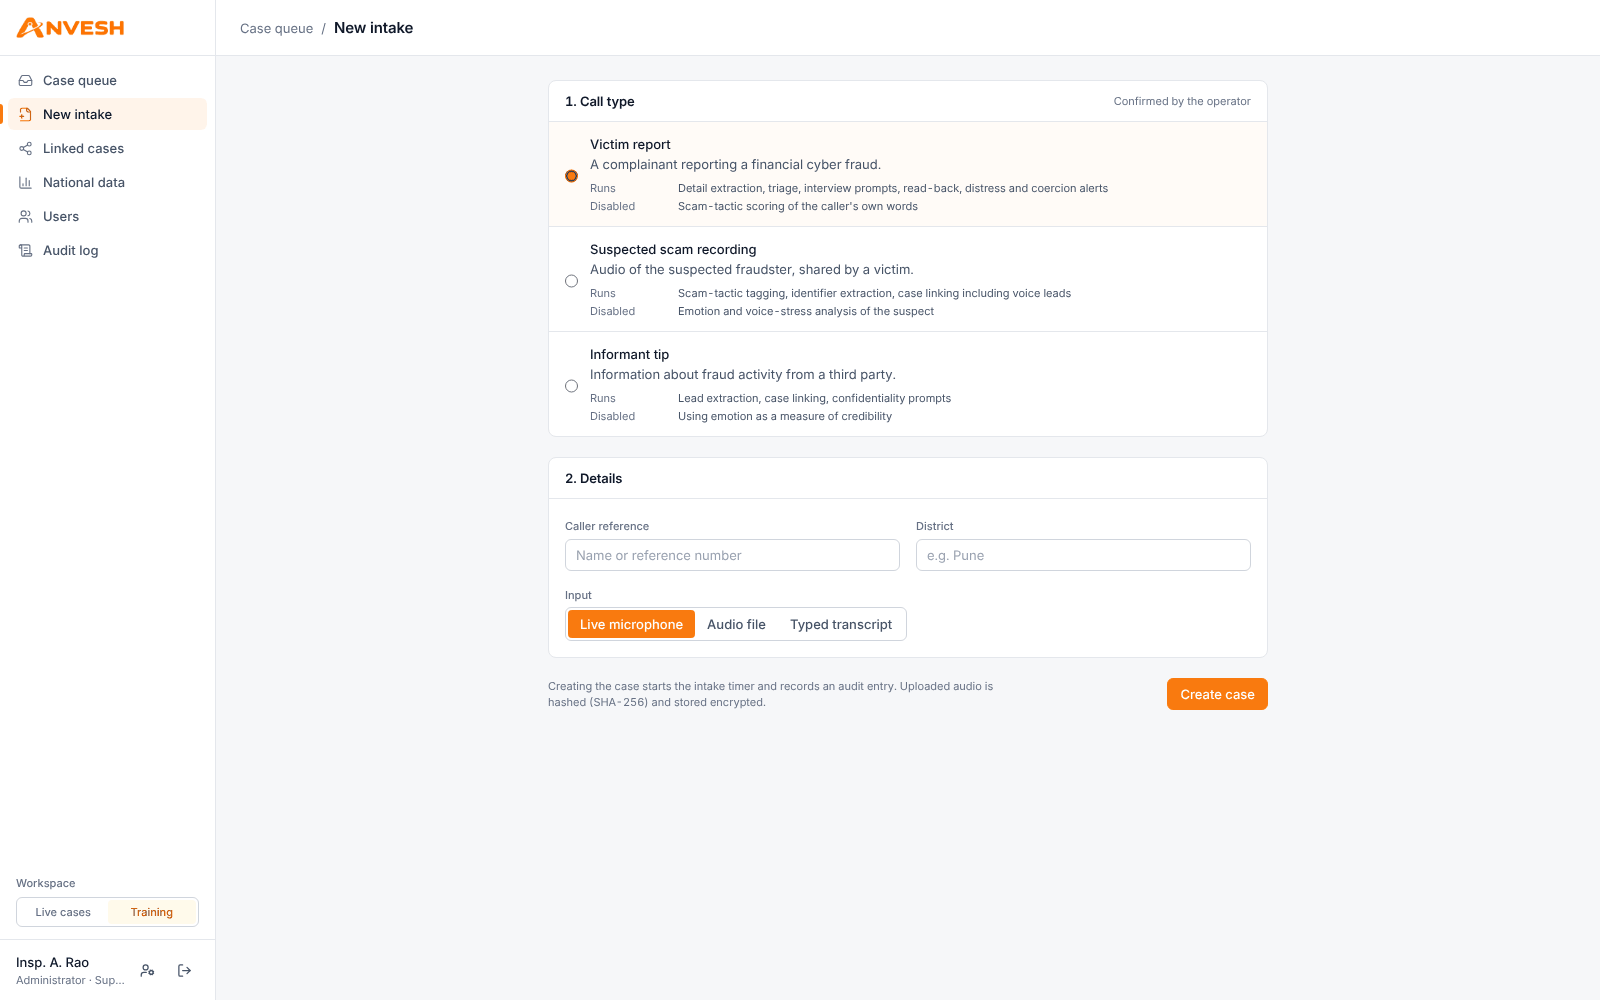
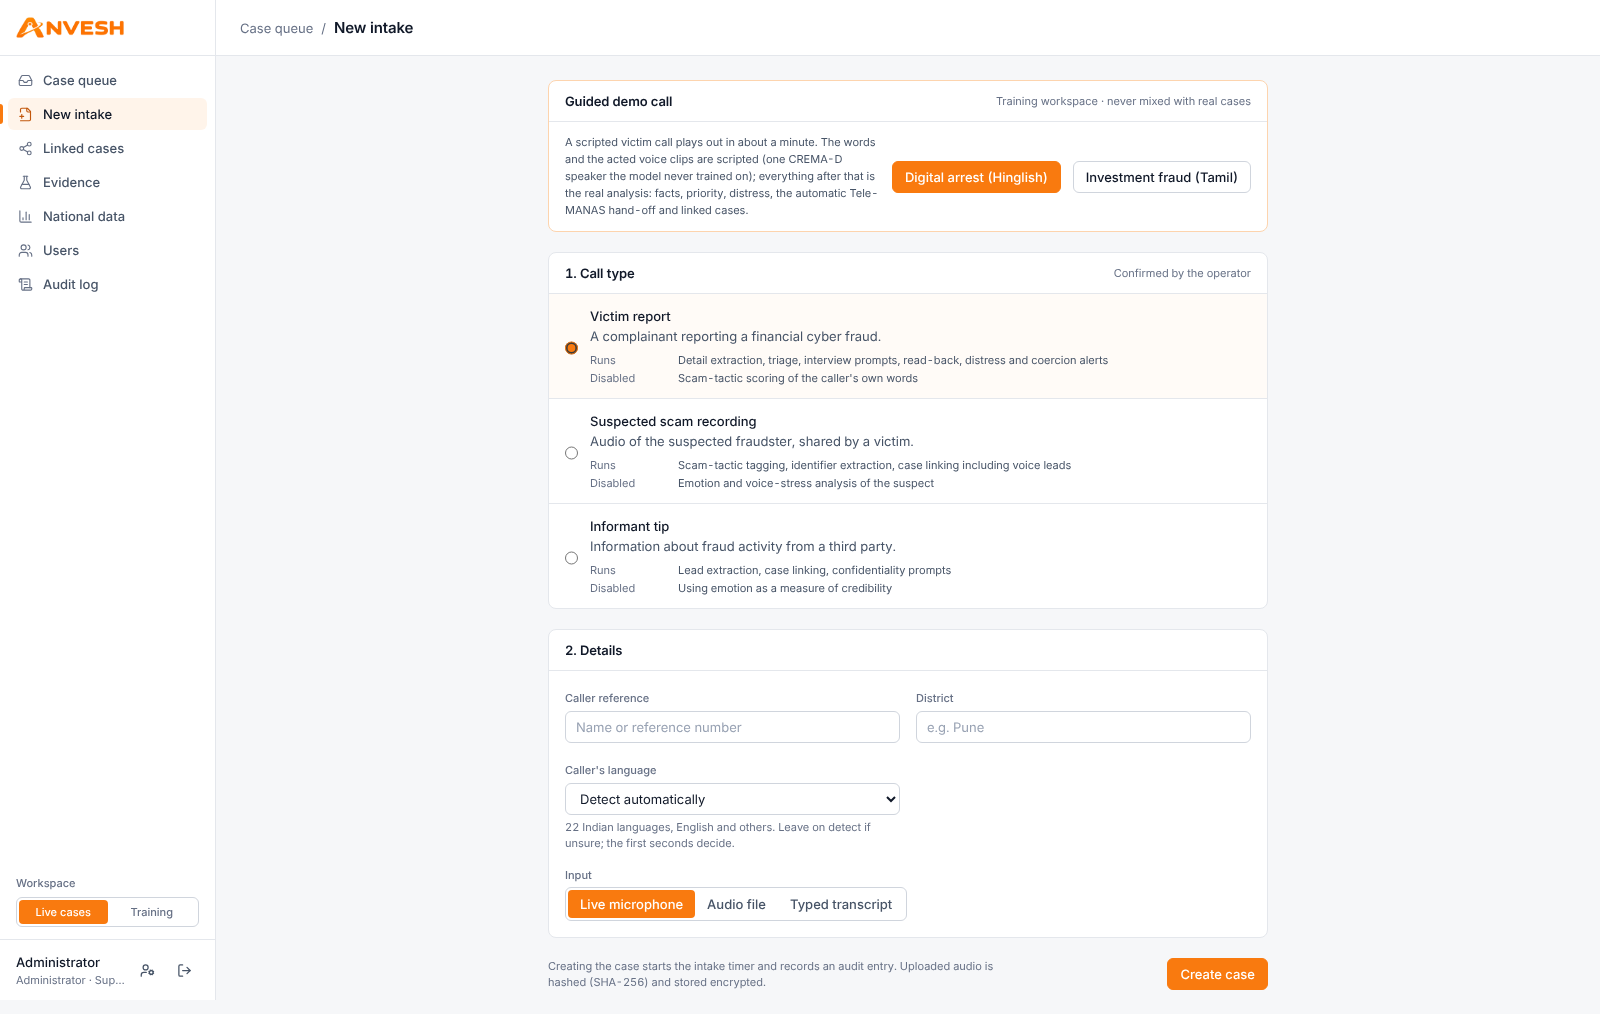
README: demo video, guided demo, evidence, dossier and dialer screenshots

diff --git a/README.md b/README.md
@@ -9,7 +9,7 @@
 ![Python](https://img.shields.io/badge/Python-3.10–3.12-3776AB?logo=python&logoColor=white)
 ![FastAPI](https://img.shields.io/badge/FastAPI-backend-009688?logo=fastapi&logoColor=white)
 ![Next.js](https://img.shields.io/badge/Next.js-frontend-000000?logo=nextdotjs&logoColor=white)
-![Tests](https://img.shields.io/badge/tests-117%20passing-2ea44f)
+![Tests](https://img.shields.io/badge/tests-149%20passing-2ea44f)
 ![SER on phone audio](https://img.shields.io/badge/phone--line%20emotion%20recall-0.44%E2%86%920.72-2a78d6)
 ![Runs offline](https://img.shields.io/badge/runs-fully%20on%20a%20laptop-orange)
 ![Languages](https://img.shields.io/badge/speech--to--text-22%20Indian%20languages%20%2B%20English-2a78d6)
@@ -19,7 +19,7 @@ PS: Real-Time Speech Emotion Analysis for Cybercrime Investigation*
 
 **Designed and developed by [Yashvi Chotalia](https://github.com/YashviChotalia)**
 
-[Live demo](#demo) · [Demo video](#demo) · [Quick start](#quick-start) · [How it works](#how-it-works) · [Evaluation](EVALUATION.md) · [Security](SECURITY.md)
+[▶ Demo video](https://drive.google.com/file/d/1TihxK2z-6nfjA6FUsXiSN4ccVkCbxoNX/view?usp=sharing) · [Quick start](#quick-start) · [How it works](#how-it-works) · [Evaluation](EVALUATION.md) · [Security](SECURITY.md)
 
 </div>
 
@@ -43,12 +43,20 @@ account. Emotion is always an **indicative signal for a human**, never evidence 
 
 ## Demo
 
-> **Live app:** *Hugging Face Space link goes here*
-> **2-minute demo video:** *video link goes here*
+[![Watch the demo video](https://img.shields.io/badge/%E2%96%B6%20Watch%20the%20demo%20video-Google%20Drive-F97A0F?style=for-the-badge)](https://drive.google.com/file/d/1TihxK2z-6nfjA6FUsXiSN4ccVkCbxoNX/view?usp=sharing)
 
-The live app runs the full stack (speech models included) in one container on free CPU hardware, so the first live
-call after a cold start can take a minute while the models load. Sign-in details for judges are in the submission
-form. Every screen in this README is the real app running on the bundled training scenarios (`python -m anvesh.seed`).
+**2-minute demo video:** <https://drive.google.com/file/d/1TihxK2z-6nfjA6FUsXiSN4ccVkCbxoNX/view?usp=sharing>
+
+The backend runs the speech models, so Anvesh is meant to run **locally on a laptop CPU**: see
+[Quick start](#quick-start). A hosted copy can also be deployed to a free Hugging Face Space
+([Other ways to run](#other-ways-to-run)). Every screen in this README is the real app running on the bundled
+training scenarios (`python -m anvesh.seed`).
+
+**Guided demo call:** a scripted Hinglish digital-arrest call played through the real analysis. Facts fill in with
+links to the words, priority rises to *Immediate*, the coercion alert fires, and *"jeene ka mann nahi"* starts the
+automatic Tele-MANAS 14416 countdown, which the officer can cancel.
+
+![Guided demo call: crisis words start the Tele-MANAS countdown while the case file fills in](docs/screenshots/guided-demo-handoff.png)
 
 ---
 
@@ -148,9 +156,17 @@ with their sources.
 |---|---|
 | ![Ring Linker](docs/screenshots/rings.png) | ![Linked cases](docs/screenshots/case-linked.png) |
 
-| New intake: role decides which analysis runs | Audit log: hash chain verified |
+| New intake: guided demo call, and the role decides which analysis runs | Audit log: hash chain verified |
 |---|---|
 | ![New intake](docs/screenshots/intake.png) | ![Audit log](docs/screenshots/audit.png) |
+
+| Evidence page: every measured result, with its results file | Case dossier (PDF): priority, hand-offs and every fact with its source words |
+|---|---|
+| ![Evidence](docs/screenshots/evidence.png) | ![Case dossier](docs/screenshots/dossier.png) |
+
+| Caller phone (`/call`): dial 1930 from a second screen | Officer console: the incoming call rings on every desk |
+|---|---|
+| <p align="center"><img src="docs/screenshots/caller-dialer.png" alt="Caller dialer" width="300"></p> | ![Incoming call](docs/screenshots/incoming-call.png) |
 
 | Official context for each case | Landing page (`/welcome`) |
 |---|---|
@@ -410,7 +426,7 @@ backend/
   anvesh/          API, speech models, live SER, NLP, triage, linker, audit, storage
   anvesh/data/     official NCRB / I4C / DoT data with sources.json
   eval/            extraction and speech-emotion evaluation scripts
-  tests/           117 unit, API and security tests
+  tests/           149 unit, API and security tests
 frontend/          Next.js workspace and landing page
 scripts/           Windows setup and start scripts
 docs/screenshots/  images used in this README
